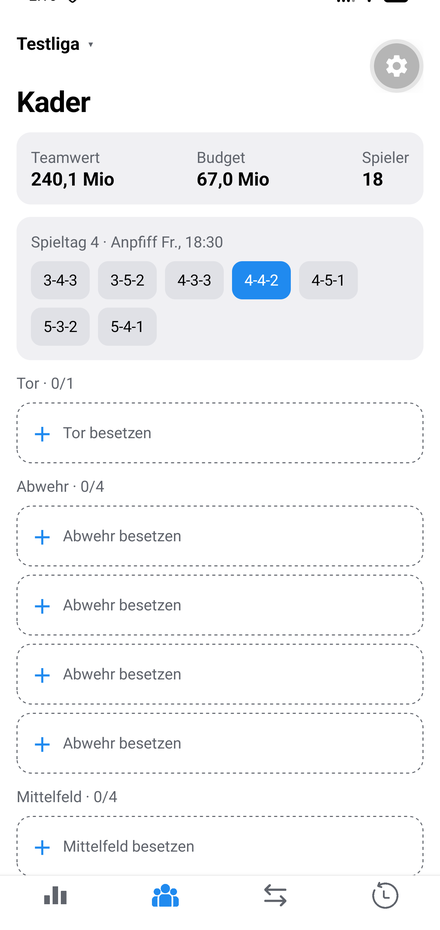
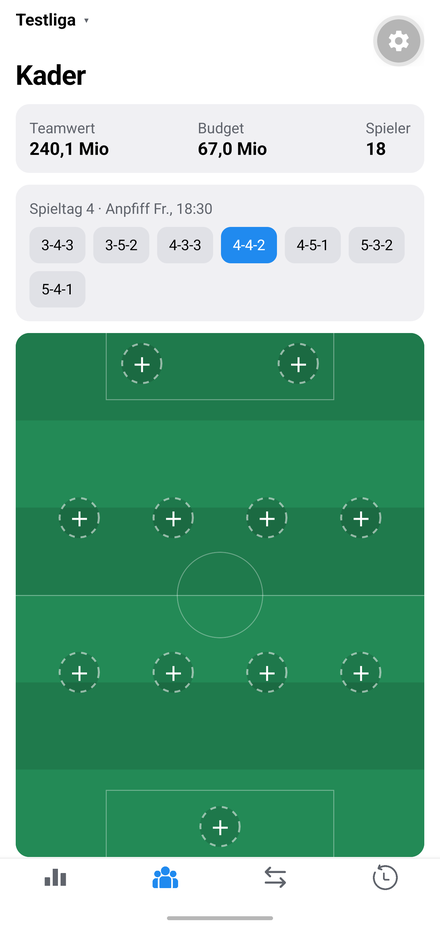
Startelf-Wechsel zurueck auf den Platz, neuer Kader-Screenshot
Android zeigt von einem Alert hoechstens drei Knoepfe. Mit dem vierten Eintrag
fuer den Startelf-Wechsel fiel ausgerechnet "Abbrechen" weg - im Emulator liess
sich der Dialog dann weder ueber die Zurueck-Taste noch daneben schliessen.

Also so wie vorher: Tippen auf einen Spieler im Feld nimmt ihn heraus, Halten
oeffnet das Menue, und hinein geht es ueber den leeren Platz. Das Menue hat
wieder drei Eintraege.

Screenshot neu aufgenommen, weil der Kader jetzt ein Spielfeld zeigt.

diff --git a/app/src/app/(tabs)/squad.tsx b/app/src/app/(tabs)/squad.tsx
@@ -109,10 +109,13 @@ export default function SquadScreen() {
     setHinweis("");
   }
 
+  /**
+   * Drei Eintraege und keiner mehr: Android zeigt von einem Alert hoechstens
+   * drei Knoepfe, ein vierter faellt kommentarlos weg - und das waere hier
+   * ausgerechnet "Abbrechen". Aufgestellt wird deshalb auf dem Platz, nicht
+   * im Menue.
+   */
   function menue(p: SquadPlayer) {
-    const drin = startelf.includes(p.playerId);
-    const platzFrei = besetzung[p.position].length < shape[p.position];
-
     Alert.alert(
       p.name,
       `${p.team.name} · ${euro(p.marketValue)} · ${p.gesamtpunkte} Punkte${
@@ -124,26 +127,8 @@ export default function SquadScreen() {
           onPress: () =>
             router.push({ pathname: "/player/[id]", params: { id: String(p.playerId) } }),
         },
-        ...(gesperrt
-          ? []
-          : drin
-            ? [
-                {
-                  text: "Aus der Startelf nehmen",
-                  onPress: () =>
-                    setStartelf((vorher) => vorher.filter((id) => id !== p.playerId)),
-                },
-              ]
-            : platzFrei
-              ? [
-                  {
-                    text: `In die Startelf (${LABEL[p.position]})`,
-                    onPress: () => setStartelf((vorher) => [...vorher, p.playerId]),
-                  },
-                ]
-              : []),
         { text: "Zum Verkauf anbieten", onPress: () => verkaufen(p) },
-        { text: "Abbrechen", style: "cancel" as const },
+        { text: "Abbrechen", style: "cancel" },
       ],
     );
   }
@@ -287,11 +272,16 @@ export default function SquadScreen() {
         besetzung={besetzung}
         gesperrt={gesperrt}
         onLeer={setWahl}
-        onSpieler={menue}
+        onSpieler={(p) =>
+          !gesperrt && setStartelf((vorher) => vorher.filter((id) => id !== p.playerId))
+        }
+        onSpielerLang={menue}
       />
       <Body dim>
         {formation} · {startelf.length}/11 aufgestellt
-        {gesperrt ? " · eingefroren" : " · Tippen öffnet den Spieler"}
+        {gesperrt
+          ? " · eingefroren"
+          : " · Tippen nimmt vom Platz, Halten öffnet den Spieler"}
       </Body>
 
       {REIHENFOLGE.map((pos) => {

diff --git a/app/src/components/formation.tsx b/app/src/components/formation.tsx
@@ -20,12 +20,14 @@ export function Formationsfeld({
   gesperrt,
   onLeer,
   onSpieler,
+  onSpielerLang,
 }: {
   shape: Record<Position, number>;
   besetzung: Record<Position, SquadPlayer[]>;
   gesperrt: boolean;
   onLeer: (pos: Position) => void;
   onSpieler: (p: SquadPlayer) => void;
+  onSpielerLang: (p: SquadPlayer) => void;
 }) {
   return (
     <View style={styles.platz}>
@@ -48,7 +50,12 @@ export function Formationsfeld({
           {Array.from({ length: shape[pos] }, (_, i) => {
             const p = besetzung[pos][i];
             return p ? (
-              <Platz key={p.playerId} p={p} onPress={() => onSpieler(p)} />
+              <Platz
+                key={p.playerId}
+                p={p}
+                onPress={() => onSpieler(p)}
+                onLongPress={() => onSpielerLang(p)}
+              />
             ) : (
               <Leer
                 key={`${pos}-${i}`}
@@ -63,12 +70,20 @@ export function Formationsfeld({
   );
 }
 
-function Platz({ p, onPress }: { p: SquadPlayer; onPress: () => void }) {
+function Platz({
+  p,
+  onPress,
+  onLongPress,
+}: {
+  p: SquadPlayer;
+  onPress: () => void;
+  onLongPress: () => void;
+}) {
   // Nur der Nachname: auf einem Feld mit fuenf Spielern nebeneinander ist
   // fuer mehr kein Platz, und im Fussball reicht er ohnehin.
   const nachname = p.name.split(" ").slice(-1)[0];
   return (
-    <Pressable style={styles.slot} onPress={onPress}>
+    <Pressable style={styles.slot} onPress={onPress} onLongPress={onLongPress}>
       {p.photoUrl ? (
         <Image source={{ uri: p.photoUrl }} style={styles.foto} />
       ) : (
